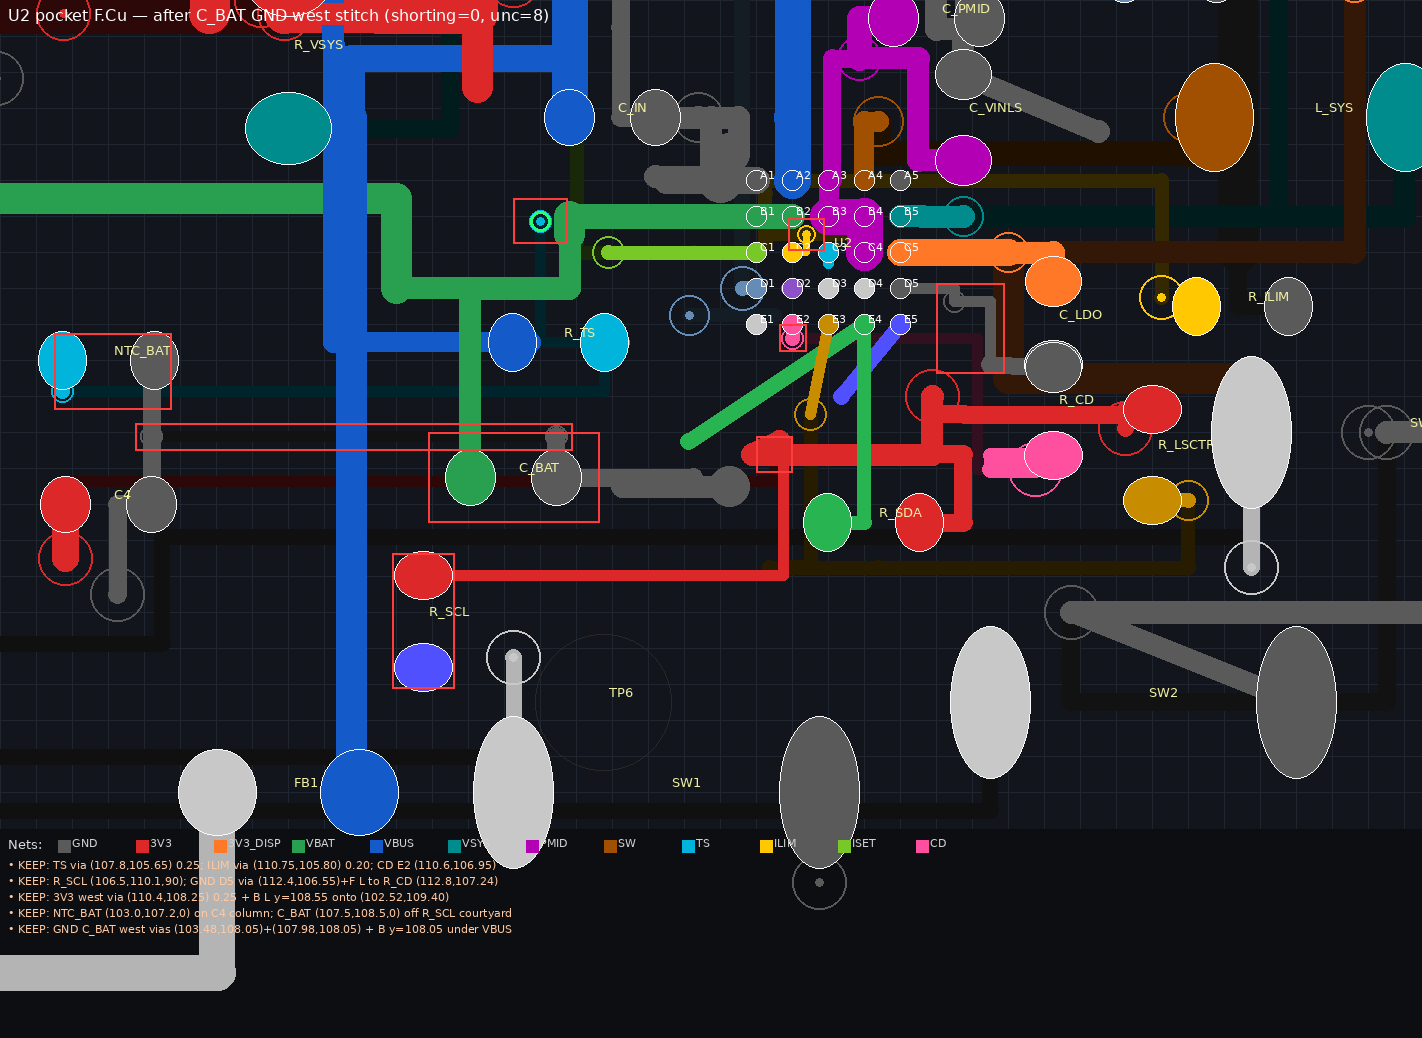
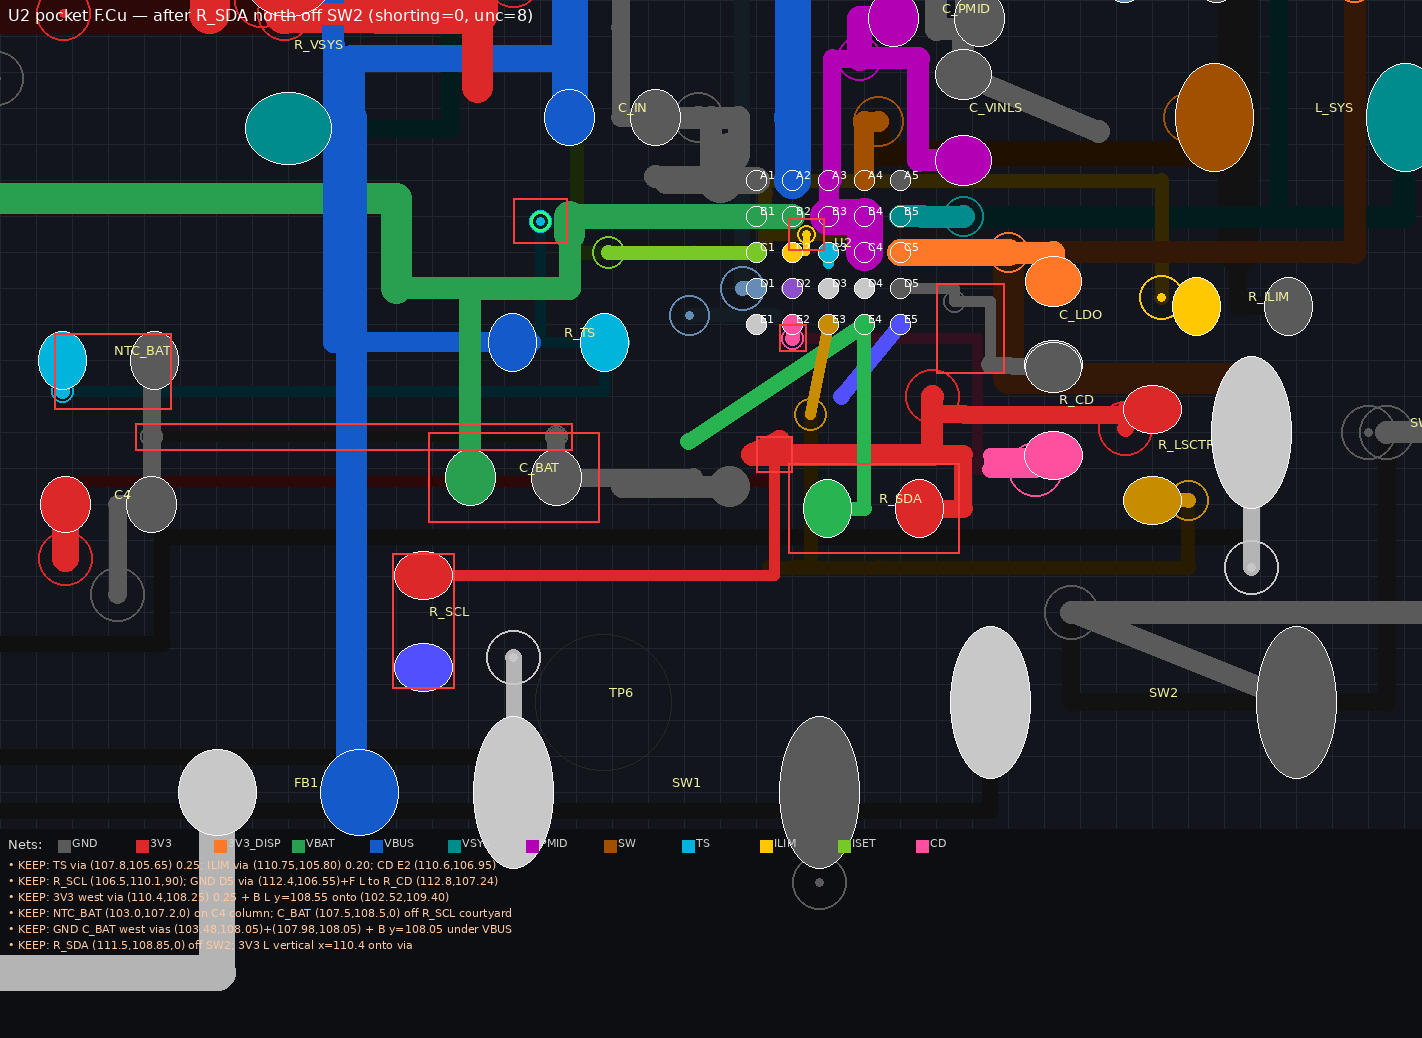
Slide R_SDA north off the SW2 courtyard.
Retract the 3V3 L vertical onto the existing via at x=110.4 so R_SDA can move to y=108.85 without the pad1-vs-3V3 short. Courtyard vs SW2 −0.120 → +0.030. West-of-VBUS SDA hops still hit the TS via drops. Shorting stays 0, unconnected stays 8.

diff --git a/kicad/tools/_pass_ag_try.py b/kicad/tools/_pass_ag_try.py
@@ -499,6 +499,53 @@ elif edit_name == "sol_gnd_cbat_west":
     text = add_segment(text, 107.98, 108.5, 107.98, 108.05, 0.2, "F.Cu", ground_net)
     print("sol_gnd_cbat_west vias (103.48,108.05)+(107.98,108.05) 0.25 + B y=108.05")
 
+elif edit_name == "sol_rsda_north":
+    # Spread R_SDA off SW2 courtyard (−0.120). West-of-VBUS SDA B hop hits
+    # TS via drops at x=108.51 and x=107.80. R_SDA west/rot90 still boxed by
+    # 3V3 x=110.5 and SDA x=111.4. KEEP: retract 3V3 L vertical 110.5→110.4
+    # (onto existing 3V3 via, GND blob +0.215) and slide R_SDA north
+    # (111.5,109.0,0)→(111.5,108.85,0). Courtyard vs SW2 −0.120 → +0.030.
+    # Probe overlap=0 (pad1 vs 3V3 x=110.4 +0.210, GND blob +0.165 on the
+    # unused 110.35 alt; 3V3 follows +0.400 vs CD). Do not re-probe the
+    # existing SDA x=111.4 crossing of 3V3 y=108.25 / SCL diagonal.
+    text = set_fp_at(text, "R_SDA", "111.5 108.85")
+    text, n_3v3_h = set_seg_ends(
+        text, 106.5, 109.59, 110.5, 109.59, 106.5, 109.59, 110.4, 109.59, layer="F.Cu"
+    )
+    text, n_3v3_v = set_seg_ends(
+        text, 110.5, 109.59, 110.5, 108.25, 110.4, 109.59, 110.4, 108.25, layer="F.Cu"
+    )
+    text, n_3v3_rail = set_seg_ends(
+        text, 110.5, 108.25, 110.16, 108.25, 110.4, 108.25, 110.16, 108.25, layer="F.Cu"
+    )
+    text, n_sda_h = set_seg_ends(
+        text, 110.99, 109.0, 111.4, 109.0, 110.99, 108.85, 111.4, 108.85, layer="F.Cu"
+    )
+    text, n_sda_v = set_seg_ends(
+        text, 111.4, 109.0, 111.4, 106.8, 111.4, 108.85, 111.4, 106.8, layer="F.Cu"
+    )
+    text, n_pad2_h = set_seg_ends(
+        text, 112.01, 109.0, 112.5, 109.0, 112.01, 108.85, 112.5, 108.85, layer="F.Cu"
+    )
+    text, n_pad2_v = set_seg_ends(
+        text, 112.5, 109.0, 112.5, 108.25, 112.5, 108.85, 112.5, 108.25, layer="F.Cu"
+    )
+    print(
+        f"sol_rsda_north fp R_SDA (111.5,108.85) 3V3_H={n_3v3_h} 3V3_V={n_3v3_v} "
+        f"3V3_RAIL={n_3v3_rail} SDA_H={n_sda_h} SDA_V={n_sda_v} "
+        f"PAD2_H={n_pad2_h} PAD2_V={n_pad2_v}"
+    )
+    if (
+        n_3v3_h != 1
+        or n_3v3_v != 1
+        or n_3v3_rail != 1
+        or n_sda_h != 1
+        or n_sda_v != 1
+        or n_pad2_h != 1
+        or n_pad2_v != 1
+    ):
+        raise SystemExit("sol_rsda_north failed to match 3V3/SDA copper")
+
 else:
     raise SystemExit(f"unknown edit {edit_name}")
 

diff --git a/kicad/tools/_pass_ag_apply_keeps.py b/kicad/tools/_pass_ag_apply_keeps.py
@@ -201,6 +201,47 @@ if has_cbat_north and not has_gnd_cbat_west:
     applied.append("sol_gnd_cbat_west")
     has_gnd_cbat_west = True
 
+has_rsda_north = "(at 111.5 108.85)" in text
+if has_gnd_cbat_west and not has_rsda_north:
+    text = set_fp_at(text, "R_SDA", "111.5 108.85")
+    text, n_3v3_h = set_seg_ends(
+        text, 106.5, 109.59, 110.5, 109.59, 106.5, 109.59, 110.4, 109.59, layer="F.Cu"
+    )
+    text, n_3v3_v = set_seg_ends(
+        text, 110.5, 109.59, 110.5, 108.25, 110.4, 109.59, 110.4, 108.25, layer="F.Cu"
+    )
+    text, n_3v3_rail = set_seg_ends(
+        text, 110.5, 108.25, 110.16, 108.25, 110.4, 108.25, 110.16, 108.25, layer="F.Cu"
+    )
+    text, n_sda_h = set_seg_ends(
+        text, 110.99, 109.0, 111.4, 109.0, 110.99, 108.85, 111.4, 108.85, layer="F.Cu"
+    )
+    text, n_sda_v = set_seg_ends(
+        text, 111.4, 109.0, 111.4, 106.8, 111.4, 108.85, 111.4, 106.8, layer="F.Cu"
+    )
+    text, n_pad2_h = set_seg_ends(
+        text, 112.01, 109.0, 112.5, 109.0, 112.01, 108.85, 112.5, 108.85, layer="F.Cu"
+    )
+    text, n_pad2_v = set_seg_ends(
+        text, 112.5, 109.0, 112.5, 108.25, 112.5, 108.85, 112.5, 108.25, layer="F.Cu"
+    )
+    if (
+        n_3v3_h != 1
+        or n_3v3_v != 1
+        or n_3v3_rail != 1
+        or n_sda_h != 1
+        or n_sda_v != 1
+        or n_pad2_h != 1
+        or n_pad2_v != 1
+    ):
+        raise SystemExit(
+            "sol_rsda_north follow "
+            f"3V3_H={n_3v3_h} 3V3_V={n_3v3_v} 3V3_RAIL={n_3v3_rail} "
+            f"SDA_H={n_sda_h} SDA_V={n_sda_v} PAD2_H={n_pad2_h} PAD2_V={n_pad2_v}"
+        )
+    applied.append("sol_rsda_north")
+    has_rsda_north = True
+
 if not applied:
     if "(at 110.75 105.8)" in text and (
         "(at 108.8 109.8 90)" in text or has_rscl_west
@@ -228,6 +269,8 @@ if not applied:
             extra += ", sol_cbat_north"
         if has_gnd_cbat_west:
             extra += ", sol_gnd_cbat_west"
+        if has_rsda_north:
+            extra += ", sol_rsda_north"
         print(
             "Pass-AG keeps already present: "
             f"iset_via_west, ts_via_corner, sol_combo_west{extra}"

diff --git a/kicad/tools/_u2_pocket_render.py b/kicad/tools/_u2_pocket_render.py
@@ -42,6 +42,7 @@ LATENTS = [
     "KEEP: 3V3 west via (110.4,108.25) 0.25 + B L y=108.55 onto (102.52,109.40)",
     "KEEP: NTC_BAT (103.0,107.2,0) on C4 column; C_BAT (107.5,108.5,0) off R_SCL courtyard",
     "KEEP: GND C_BAT west vias (103.48,108.05)+(107.98,108.05) + B y=108.05 under VBUS",
+    "KEEP: R_SDA (111.5,108.85,0) off SW2; 3V3 L vertical x=110.4 onto via",
 ]
 
 
@@ -252,6 +253,7 @@ def render_layer(text, layer, title, callouts):
         ((102.40, 106.90, 103.70, 107.75), "NTC west KEEP"),
         ((106.55, 108.00, 108.45, 109.00), "C_BAT north KEEP"),
         ((103.30, 107.90, 108.15, 108.20), "GND C_BAT west KEEP"),
+        ((110.55, 108.35, 112.45, 109.35), "R_SDA north KEEP"),
     ]
     if layer == "F.Cu":
         for (bx0, by0, bx1, by1), _label in boxes:
@@ -288,7 +290,7 @@ def main():
     fcu = render_layer(
         text,
         "F.Cu",
-        "U2 pocket F.Cu — after C_BAT GND west stitch (shorting=0, unc=8)",
+        "U2 pocket F.Cu — after R_SDA north off SW2 (shorting=0, unc=8)",
         LATENTS,
     )
     bcu = render_layer(
@@ -300,6 +302,7 @@ def main():
             "KEEP 3V3 B.Cu L: (110.4,108.25)->(110.4,108.55)->(102.52,108.55)->(102.52,109.40)",
             "KEEP NTC TS B.Cu: (102.49,107.55)->(108.51,107.55)->(108.51,107.00) under VBUS",
             "BTN3 B y=109.15; GND B 108.05 sits between TS B 107.55 and 3V3 B 108.55",
+            "R_SDA now (111.5,108.85); 3V3 L vertical x=110.4 on F (ghost)",
         ],
     )
     fcu_path = OUT / "u2_pocket_fcu_annotated.png"

diff --git a/kicad/reports/PASS_AG.md b/kicad/reports/PASS_AG.md
@@ -7,7 +7,7 @@
 
 ## Verdict
 
-**Partial.** Hard gates held. Combined Sol vision KEEP cleared the four U2 latents. Sol then browsed the repo: `sol_rscl_3v3` then `sol_3v3_lsctrl_tie` reconnected the west `R_SCL` pad2 and the leftover `R_LSCTRL` 3V3 stub. Independent CD F→B KEEP (`sol_cd_e2_via`) and ILIM C2 dogbone (`sol_ilim_c2_dogbone`) closed E2 and C2 (`unc` 16→12). South 0402 heap spread with `sol_rscl_west` (`R_SCL` to `(106.5, 110.1, 90)`). Independent `sol_gnd_d5_via` + F.Cu tie `sol_gnd_d5_tie` joined D5 onto east `R_CD` GND (`unc` 12→10). Independent `sol_3v3_west_via` joined east 3V3 to west via `(102.52, 109.40)` on B.Cu north of BTN3 (`unc` 10→9). Independent `sol_ntc_west` moved `NTC_BAT` onto the `C4` column west of VBUS (courtyard vs `C_BAT` `−0.290` → `+2.721`; `unc` stayed 9). Independent `sol_cbat_north` slid `C_BAT` to `(107.5, 108.5, 0)` (courtyard vs `R_SCL` `−0.100` → `+0.200`; `unc` stayed 9). Independent `sol_gnd_cbat_west` joined `C_BAT` GND to the `C4` column under VBUS (`unc` 9→8). C3 TS and E5 SCL still islands. Not production-ready.
+**Partial.** Hard gates held. Combined Sol vision KEEP cleared the four U2 latents. Sol then browsed the repo: `sol_rscl_3v3` then `sol_3v3_lsctrl_tie` reconnected the west `R_SCL` pad2 and the leftover `R_LSCTRL` 3V3 stub. Independent CD F→B KEEP (`sol_cd_e2_via`) and ILIM C2 dogbone (`sol_ilim_c2_dogbone`) closed E2 and C2 (`unc` 16→12). South 0402 heap spread with `sol_rscl_west` (`R_SCL` to `(106.5, 110.1, 90)`). Independent `sol_gnd_d5_via` + F.Cu tie `sol_gnd_d5_tie` joined D5 onto east `R_CD` GND (`unc` 12→10). Independent `sol_3v3_west_via` joined east 3V3 to west via `(102.52, 109.40)` on B.Cu north of BTN3 (`unc` 10→9). Independent `sol_ntc_west` moved `NTC_BAT` onto the `C4` column west of VBUS (courtyard vs `C_BAT` `−0.290` → `+2.721`; `unc` stayed 9). Independent `sol_cbat_north` slid `C_BAT` to `(107.5, 108.5, 0)` (courtyard vs `R_SCL` `−0.100` → `+0.200`; `unc` stayed 9). Independent `sol_gnd_cbat_west` joined `C_BAT` GND to the `C4` column under VBUS (`unc` 9→8). Independent `sol_rsda_north` slid `R_SDA` to `(111.5, 108.85, 0)` and retracted 3V3 L to `x=110.4` (courtyard vs `SW2` `−0.120` → `+0.030`; `unc` stayed 8). C3 TS and E5 SCL still islands. Not production-ready.
 
 ## KEEP (DRC-gated)
 
@@ -27,6 +27,7 @@
 | `sol_ntc_west` move + F/B | Spread NTC/C_BAT pile: `NTC_BAT (108.2, 108.15, 0)` → `(103.0, 107.2, 0)` north of `C4`. TS via `0.25@(102.49, 107.55)` + B.Cu `y=107.55` under VBUS onto TS via `(108.51, 107.00)`; GND F onto `C4.2`. Sol STEP7 refused east/south NTC and north `R_SDA`. Probe overlap=0 (3V3 B `+0.880`, BTN3 `+1.450`, C4.1 3V3 `+0.550`). `shorting=0`, `unc=9`. |
 | `sol_cbat_north` move + F | Spread C_BAT off R_SCL: `C_BAT (107.5, 108.8, 0)` → `(107.5, 108.5, 0)`. VBAT vertical and GND L retargeted in-place. `R_SDA` north/west overlap 3V3 `x=110.5` / SDA `x=111.4`. Probe overlap=0 (R_SCL.2 `+0.486`, 3V3 L `+0.720`, SDA diagonal `+0.210`). Courtyard vs `R_SCL` `−0.100` → `+0.200`. `shorting=0`, `unc=9`. |
 | `sol_gnd_cbat_west` add F/B | Join `C_BAT` west GND to `C4`/`NTC` without F.Cu across VBUS: via `0.25@(103.48, 108.05)` on the C4 GND vertical + via `0.25@(107.98, 108.05)` + B.Cu `y=108.05` under VBUS between TS B `y=107.55` and 3V3 B `y=108.55`. F stub from `C_BAT.2`. Probe overlap=0 (TS B `+0.315`, 3V3 B `+0.315`). `shorting=0`, `unc=9→8`. |
+| `sol_rsda_north` move + F | Spread `R_SDA` off `SW2`: retract 3V3 L vertical `x=110.5`→`x=110.4` onto via `(110.4, 108.25)` (GND blob `+0.215`; `x=110.00` OVERLAP blob `−0.185`). `R_SDA (111.5, 109.0, 0)` → `(111.5, 108.85, 0)`. Courtyard vs `SW2` `−0.120` → `+0.030`. West-of-VBUS SDA B hop hits TS drops `x=108.51` / `x=107.80`. Probe overlap=0. `shorting=0`, `unc=8`. |
 
 Replay: `python3 tools/_pass_ag_apply_keeps.py` on the Pass-AF board.
 
@@ -48,11 +49,11 @@ The four U2 latents from Pass-AG are **geometrically cleared** by `sol_combo_wes
 
 ## Remaining unc=8
 
-GND A5 vs D5 (D5 via does not stitch In1), west 3V3_DISP ×2, SDA to U1, SCL E5 vs `R_SCL` pad1 `(106.5, 110.61)`, SCL to U1, PMIC_INT, TS C3 vs TS B via `(107.8, 105.65)`. Pocket CD (E2), ILIM (C2), D5→east `R_CD`, east 3V3→west via, NTC TS/GND, and `C_BAT` west GND→`C4` column are closed. `C_BAT` is at `(107.5, 108.5)` (courtyard vs `R_SCL` `+0.200`). `R_SDA` still sits in the F street at `(111.50, 109.00)` (courtyard vs `SW2` `−0.120`).
+GND A5 vs D5 (D5 via does not stitch In1), west 3V3_DISP ×2, SDA to U1, SCL E5 vs `R_SCL` pad1 `(106.5, 110.61)`, SCL to U1, PMIC_INT, TS C3 vs TS B via `(107.8, 105.65)`. Pocket CD (E2), ILIM (C2), D5→east `R_CD`, east 3V3→west via, NTC TS/GND, `C_BAT` west GND→`C4` column, and `R_SDA` vs `SW2` courtyard are closed. `C_BAT` is at `(107.5, 108.5)` (courtyard vs `R_SCL` `+0.200`). `R_SDA` is at `(111.50, 108.85)` (courtyard vs `SW2` `+0.030`).
 
 ## Next
 
-Spread `R_SDA` off `SW2` without parking on SW1/SW2 (`R_SDA` north/west is boxed by 3V3 `x=110.5` and SDA `x=111.4`; 3V3 retract to `x=110.00` hits GND blob `w=0.45@(109.90, 108.60)`). Orthogonal F/B reconnect of TS C3 and SCL E5→`R_SCL` pad1 `(106.5, 110.61)`. A5 GND still overlaps PMID/ILIM B to the east. New GND via does not stitch In1 until refill — D5 stays an island vs A5. No In1/In2 signal hauls. No new overlap. East 0402 column stays (`R_CD`/`C_LDO` x=113.5, `R_LSCTRL` x=114.6, `R_ILIM` x=115.6).
+Orthogonal F/B reconnect of TS C3 and SCL E5→`R_SCL` pad1 `(106.5, 110.61)`. A5 GND still overlaps PMID/ILIM B to the east. New GND via does not stitch In1 until refill — D5 stays an island vs A5. `R_SCL` vs `SW1` courtyard remains VBUS-tight. No In1/In2 signal hauls. No new overlap. East 0402 column stays (`R_CD`/`C_LDO` x=113.5, `R_LSCTRL` x=114.6, `R_ILIM` x=115.6).
 
 gpt-6-sol now browses with `tools/_sol_repo_explore.py`. NC pads must show in `inspect_pcb_window` / `probe_clearance` or it will haul CD onto E1.
 

diff --git a/cursor.md b/cursor.md
@@ -41,6 +41,7 @@ Do not skip these on the next PCB pass.
 - Spreading NTC vs C_BAT courtyard `−0.290`: east of C_BAT (rot0 at `y=108.80` or rot90 in the C_BAT/`R_SDA` band) hits the SDA diagonal `(109.44, 108.10)` and/or C_BAT GND `y=108.8`. `R_SDA` rot90 on `x=111.4` puts pad2 `3V3` on the SDA vertical. C_BAT south hits the 3V3 L `y=109.59`. KEEP `sol_ntc_west`: `NTC_BAT (103.0, 107.2, 0)` north of `C4`, west of VBUS `x=105.7`. TS via `0.25@(102.49, 107.55)` + B.Cu `y=107.55` under VBUS onto existing TS via `(108.51, 107.00)`. GND F onto `C4.2`. Courtyard NTC vs C_BAT `−0.290` → `+2.721`. DRC `shorting=0` unc=9. Sol STEP7 correctly refused the east/south NTC and north `R_SDA` probes.
 - Spreading C_BAT vs R_SCL courtyard `−0.100`: C_BAT south hits 3V3 L `y=109.59`; west is VBUS; east is the SDA diagonal. `R_SDA` north `y=108.85` OVERLAP 3V3 vertical `x=110.5` (`−0.160`); `R_SDA` west `x=111.17` OVERLAP that same 3V3 vertical (`−0.380`) and SDA `x=111.4`. `R_SCL` west is VBUS-tight vs SW1 courtyard `−0.170`. KEEP `sol_cbat_north`: `C_BAT (107.5, 108.8, 0)` → `(107.5, 108.5, 0)`, retarget VBAT vertical and GND L in-place. Courtyard vs `R_SCL` `−0.100` → `+0.200`. DRC `shorting=0` unc=9. Do not re-probe the existing VBAT vertical through VBUS `y=107` — that copper is unchanged. Sol STEP8 hit `MAX_ROUNDS` still calling tools, so the report had no Sol KEEP text; independently re-probe every R_SDA variant it did emit (rot90 east/west, rot0 north, rot180) — all OVERLAP.
 - `R_SDA` vs `SW2` courtyard `−0.120` is boxed by 3V3 vertical `x=110.5` and SDA vertical `x=111.4`; 3V3 retract to `x=110.00` OVERLAP GND blob `(109.90, 108.60)` `w=0.45`. LSCTRL B `x=110.80` blocks an SDA B hop from pad1. KEEP `sol_gnd_cbat_west`: via `0.25@(103.48, 108.05)` on the C4 GND vertical + via `0.25@(107.98, 108.05)` on `C_BAT.2` + B.Cu `y=108.05` under VBUS between TS B `y=107.55` and 3V3 B `y=108.55`. Not VIP. Probe overlap=0 (TS B `+0.315`, 3V3 B `+0.315`). DRC `shorting=0` unc 9→8. `y=107.90` is only `+0.165` vs TS B. Explorer must finalize after the last tool round or Sol's KEEP text is dropped.
+- West-of-VBUS `R_SDA` SDA B hop OVERLAP TS via-drops at `x=108.51` (`y=107.00–107.55`) and `x=107.80` (`y=105.65–107.00`). Alleys between TS B `107.55` / GND B `108.05` / 3V3 B `108.55` cannot hold 0.15+0.15+track. KEEP `sol_rsda_north`: retract 3V3 L vertical `110.5`→`110.4` (onto existing 3V3 via `(110.4, 108.25)`, GND blob `+0.215`) and slide `R_SDA (111.5, 109.0, 0)` → `(111.5, 108.85, 0)`. Courtyard vs `SW2` `−0.120` → `+0.030` (DRC no longer lists R_SDA/SW2). Probe overlap=0. DRC `shorting=0` unc=8. Do not re-probe the existing SDA `x=111.4` crossing of 3V3 `y=108.25` / SCL diagonal.
 
 ## Hard gates (do not relax)
 
